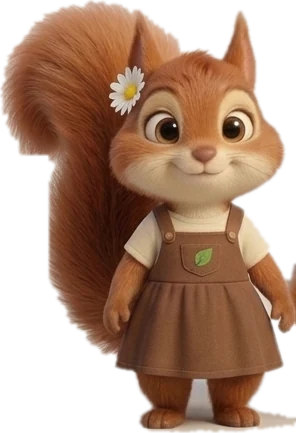
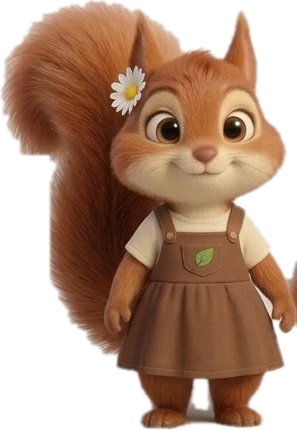
Вырезки героев: убраны тень и пол у ног мишки, ёжика и белочки
Второй проход съедает серые пиксели фона, у пола — светлую тень под
лапами; просветы между ног чистятся отдельно. Отрезанные от тела ступни
остаются. Перегенерированы все пять вырезок.

diff --git a/scripts/make-cutouts.py b/scripts/make-cutouts.py
@@ -67,33 +67,77 @@ def cut(name, file, box, tol, erase=None):
         for nx, ny in ((x + 1, y), (x - 1, y), (x, y + 1), (x, y - 1)):
             if 0 <= nx < w and 0 <= ny < h and not seen[ny * w + nx]:
                 q.append((nx, ny, c))
+    # Second pass: grow the background through cool, grey pixels touching it.
+    # The studio grey and the floor shadow are neutral or bluish, while fur,
+    # skin and clothes here are warm or clearly coloured. Near the floor the
+    # rule is looser, so the soft contact shadow under the feet goes too.
+    rows = [y for y in range(h) if any(not seen[y * w + x] for x in range(w))]
+    top, bottom = rows[0], rows[-1]
+    feet = bottom - (bottom - top) * 0.14
+
+    def greyish(c, y):
+        r, g, b = c
+        spread = max(c) - min(c)
+        if y > feet:
+            # Light floor and contact shadow between and under the feet;
+            # paws and fur stay because they are darker or orange-brown.
+            return 6 < r - b < 48 and spread < 50 and sum(c) > 3 * 140
+        return r - b < 6 and spread < 24 and sum(c) > 3 * 120
+
+    q = deque(i for i in range(w * h) if seen[i])
+    while q:
+        i = q.popleft()
+        x, y = i % w, i // w
+        for nx, ny in ((x + 1, y), (x - 1, y), (x, y + 1), (x, y - 1)):
+            if 0 <= nx < w and 0 <= ny < h:
+                j = ny * w + nx
+                if not seen[j] and greyish(px[nx, ny], ny):
+                    seen[j] = 1
+                    q.append(j)
+    # Gaps between the legs are closed off from the border, so the passes
+    # above never reach them: clear neutral light pixels low in the figure.
+    gap = bottom - (bottom - top) * 0.18
+    for y in range(int(gap), h):
+        for x in range(w):
+            c = px[x, y]
+            # Neutral grey, not the bluish denim of the overalls.
+            if max(c) - min(c) < 24 and c[2] - c[0] < 8 and sum(c) > 3 * 125:
+                seen[y * w + x] = 1
     # Keep only the biggest figure: drops slivers of neighbours in the lineup.
     comp = [0] * (w * h)
     best, best_size, label = 0, 0, 0
+    parts = {}
     for start in range(w * h):
         if seen[start] or comp[start]:
             continue
         label += 1
-        size, stack = 0, [start]
+        size, stack, top_y = 0, [start], start // w
         comp[start] = label
         while stack:
             i = stack.pop()
             size += 1
             x, y = i % w, i // w
+            top_y = min(top_y, y)
             for nx, ny in ((x + 1, y), (x - 1, y), (x, y + 1), (x, y - 1)):
                 if 0 <= nx < w and 0 <= ny < h:
                     j = ny * w + nx
                     if not seen[j] and not comp[j]:
                         comp[j] = label
                         stack.append(j)
+        parts[label] = (size, top_y)
         if size > best_size:
             best, best_size = label, size
+    # Feet that the floor passes cut off from the body stay too: small parts
+    # that start low in the figure (neighbours in the lineup are tall).
+    keep = {best} | {k for k, (size, top_y) in parts.items() if size > best_size * 0.004 and top_y > gap}
     mask = Image.new("L", (w, h), 0)
     mp = mask.load()
     for y in range(h):
         for x in range(w):
-            if comp[y * w + x] == best:
+            if comp[y * w + x] in keep:
                 mp[x, y] = 255
+    # Close pin holes inside the figure, then shave and soften the edge.
+    mask = mask.filter(ImageFilter.MaxFilter(3)).filter(ImageFilter.MinFilter(3))
     mask = mask.filter(ImageFilter.MinFilter(3)).filter(ImageFilter.GaussianBlur(1.2))
     out = im.convert("RGBA")
     out.putalpha(mask)
